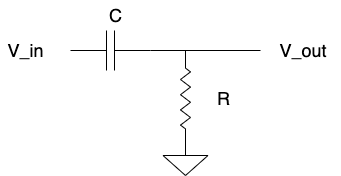
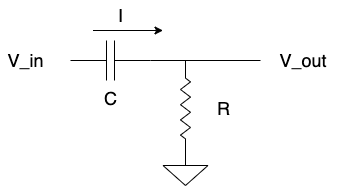
cals: wrote blog

diff --git a/books/inter_21_03/signal/README.md b/books/inter_21_03/signal/README.md
@@ -13,3 +13,64 @@ Garbage in, Garbage out
 
 ### バンドパスフィルタ
 - ハイパスフィルタ * ローパスフィルタ
+
+
+### ハイパス/ローパスのリアルでの回路
+[記事書いた](https://koko206.hatenablog.com/entry/2021/07/18/232743?_ga=2.237843015.699704037.1626609650-1799626807.1626609650)
+
+## calc
+$$
+V_{in}(t) = \frac{1}{C}\int I(t)dt + V_{out}(t)
+$$
+
+$V_{out}$の部分は出力電圧を測定するのみで、電流は流れないと考えると、抵抗側にも$I(t)$の電流が流れるから
+$$
+V_{out}(t) = RI(t)
+$$
+
+$$
+V_{in}(t) = \frac{1}{RC}\int_{-\infty}^{t} V_{out}(t')dt' + V_{out}(t)
+$$
+
+$$
+\lim_{p\to \infty}\frac{1}{2\pi i}\int_{c-ip}^{c+ip}f(t)e^{st}dt
+$$
+
+$$
+F(s) = \int_0^\infty f(t)e^{-st}dt
+$$
+
+$$
+\int V_{in}(s)e^{st}ds = \frac{1}{RC}\int V_{out}(s)\left(\int_{-\infty}^{t} e^{st'}dt'\right)ds + \int V_{out}(s)e^{st}ds
+$$
+
+$$
+\int_0^\infty e^{st'}dt' = \left[\frac{1}{s} e^{st'}\right]_{t'=-\infty}^{t'=t} = \frac{1}{s}e^{st}
+$$
+
+$$
+\int V_{in}(s)e^{st}ds = \frac{1}{sRC}\int V_{out}(s)e^{st}ds + \int V_{out}(s)e^{st}ds
+$$
+
+単純に中身だけ比較して良いのか？（ラプラス変換２回で戻る性質！）
+
+$$
+V_{in}(s) = \left(\frac{1}{sRC} + 1\right)V_{out}(t)
+$$
+
+$$
+\left|\frac{V_{out}}{V_{out}}\right| = \left|\frac{1}{\frac{1}{i\omega RC} + 1}\right| = \frac{1}{\sqrt{1+(\frac{1}{\omega RC})^2}}
+$$
+
+$$
+\left|\frac{V_{out}}{V_{out}}\right| \to 1 \quad (\omega\to 0) \\
+\left|\frac{V_{out}}{V_{out}}\right| \to 0 \quad (\omega\to\infty)
+$$
+
+$$
+\left|\frac{V_{out}}{V_{out}}\right| = \left|\frac{1}{\frac{i\omega L}{R} + 1}\right| = \frac{1}{\sqrt{1+(\frac{\omega L}{R})^2}}
+$$
+
+$$
+
+$$
